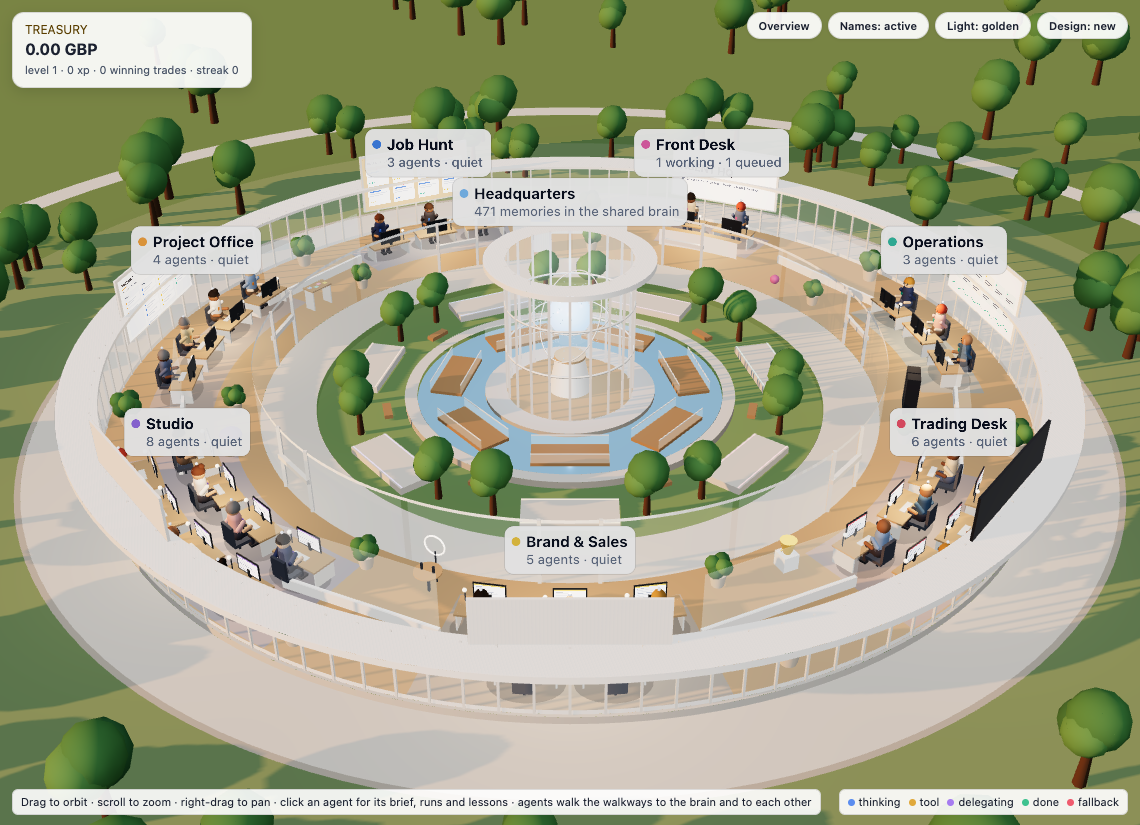
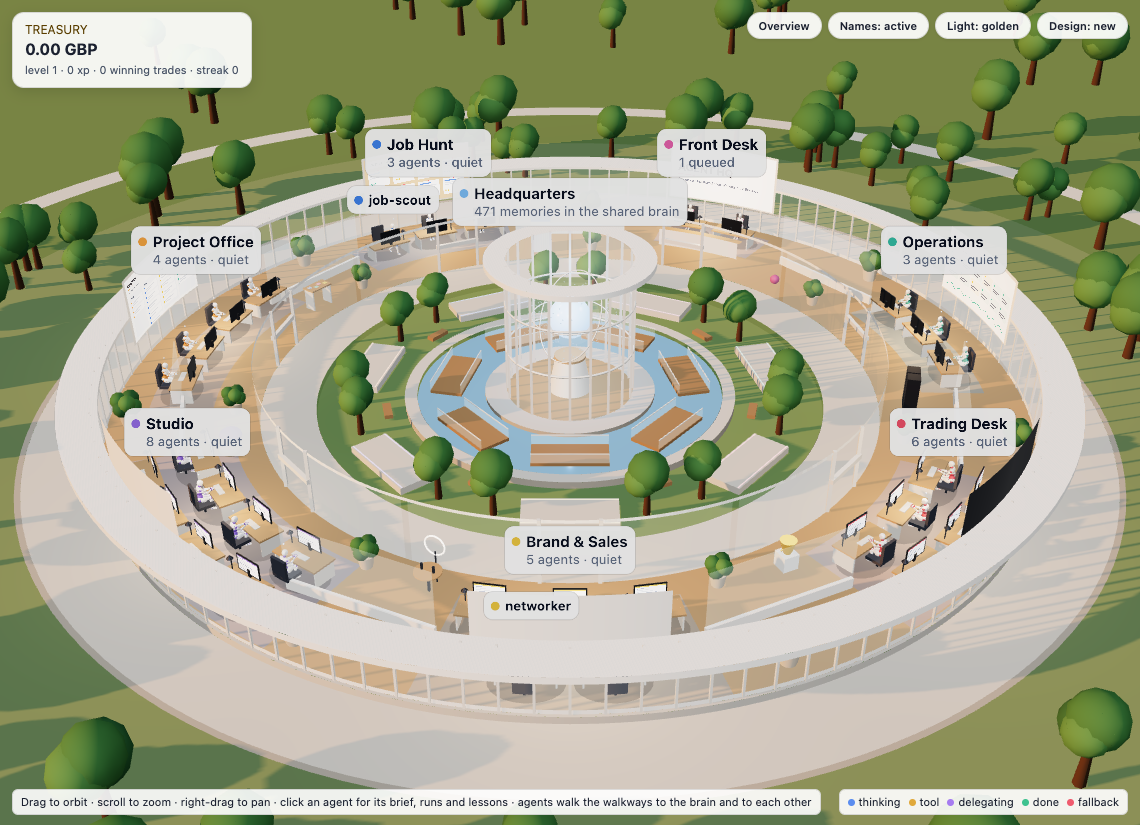
Sync from dev: Campus v2: motion-captured people (X Bot) that sit, type and walk; curved wall screens and ticker

diff --git a/office/static/office3d.js b/office/static/office3d.js
@@ -10,6 +10,24 @@
 import * as THREE from "three";
 import { OrbitControls } from "three/addons/controls/OrbitControls.js";
 import { RoomEnvironment } from "three/addons/environments/RoomEnvironment.js";
+import { GLTFLoader } from "three/addons/loaders/GLTFLoader.js";
+import * as SkeletonUtils from "three/addons/utils/SkeletonUtils.js";
+
+/* People: the motion-captured humanoid from the three.js examples (Mixamo X Bot: real proportions, captured
+   idle and walk, a full skeleton we pose to sit and type). Simple built-in figures are the fallback. */
+const PERSON_URL = "https://cdn.jsdelivr.net/gh/mrdoob/three.js@r160/examples/models/gltf/Xbot.glb";
+const PERSON_HEIGHT = 4.6;                                  // scene units (desk top is 1.85)
+// axes measured on the X Bot skeleton: thigh forward = local x-, knee = x+, arm down = z (left -, right +),
+// arm forward = y (left -, right +), elbow = y (left -, right +); bone height at scale 1 is 1.78
+const SIT = { hip: -1.5, knee: 1.5, drop: 0.72, back: 0.3, armDown: 1.2, armFwd: 0.95, elbow: 1.05, lean: 0.16 };
+const PERSON_SCALE = 2.5;
+let personAsset = null, personPromise = null, lastRoster = null;
+function loadPerson() {
+  if (!personPromise) personPromise = new GLTFLoader().loadAsync(PERSON_URL)
+    .then(g => { personAsset = { scene: g.scene, clips: g.animations, scale: PERSON_SCALE }; return personAsset; })
+    .catch(e => { console.warn("person model unavailable, using simple figures", e); return null; });
+  return personPromise;
+}
 
 const OFFICE_ORDER = ["front-desk", "job-hunt", "pm", "studio", "brand-sales", "trading", "ops"];
 const ACCENT = { "front-desk": 0xc2558f, "job-hunt": 0x3b6fd6, "pm": 0xd98433, "studio": 0x7a5fcf, "brand-sales": 0xd4a52a, "trading": 0xc94a5c, "ops": 0x2e9c86, "research": 0x3a9bc9, "creative": 0xd06a9c };
@@ -57,7 +75,7 @@ const M = {
   water: std(0x5d8db0, 0.07, 0.3, 1.1),
   fabric: std(0x59606e, 0.95, 0, 0.2), fabricWarm: std(0xc8b49a, 0.95, 0, 0.2), monitor: std(0x22262e, 0.4, 0.5, 0.5),
   trunk: std(0x6e5238, 1, 0, 0.1), pot: std(0xd8cbb7, 0.85, 0, 0.3), plant: std(0x4f8f55, 0.9, 0, 0.15),
-  gold: std(0xd9ae45, 0.3, 0.85, 1.0),
+  gold: std(0xd9ae45, 0.3, 0.85, 1.0), darkPanel: std(0x262a33, 0.5, 0.3, 0.4, { side: THREE.DoubleSide }),
   shadow: new THREE.MeshBasicMaterial({ color: 0x000000, transparent: true, opacity: 0.16, depthWrite: false }),
 };
 M.glass.envMapIntensity = 1.3; envMats.push([M.glass, 1.3]);
@@ -239,6 +257,7 @@ export function init(el, options = {}) {
   Object.assign(sun.shadow.camera, { left: -78, right: 78, top: 78, bottom: -78, near: 20, far: 420 }); sun.shadow.bias = -0.0004; sun.shadow.normalBias = 0.03; sun.shadow.radius = 4;
   scene.add(sun); scene.add(sun.target);
   buildSky(); buildLandscape(); buildCourtyard(); buildAtrium();
+  loadPerson().then(a => { if (a && lastRoster) { const st = {}; Object.values(figures).forEach(f => { st[f.name] = f.state; }); setRoster(lastRoster); Object.entries(st).forEach(([n, v]) => setState(n, v)); } });
   camera.position.set(0, 74, 122); controls.target.set(0, 0, 4);
   lastUser = performance.now();                       // the autopilot waits for a quiet spell before it starts gliding
   const el2 = renderer.domElement;
@@ -268,7 +287,7 @@ function pick(e) {
   const r = renderer.domElement.getBoundingClientRect();
   mouse.set(((e.clientX - r.left) / r.width) * 2 - 1, -((e.clientY - r.top) / r.height) * 2 + 1);
   raycaster.setFromCamera(mouse, camera);
-  const hits = raycaster.intersectObjects(Object.values(figures).map(f => f.group), true);
+  const hits = raycaster.intersectObjects(Object.values(figures).map(f => f.hit || f.group), true);
   if (hits.length) { let o = hits[0].object; while (o && !o.userData.agent) o = o.parent; if (o) return { fig: figures[o.userData.agent] }; }
   const sh = raycaster.intersectObjects(signs, false); if (sh.length) return { dept: sh[0].object.userData.dept };
   return null;
@@ -364,8 +383,9 @@ export function setBrain(count) {
 
 /* ----------------------------------------------------------------------------- the ring building */
 export function setRoster(list) {
-  if (campus) { scene.remove(campus); campus.traverse(o => { if (o.isSprite) dropSprite(o); }); }
-  Object.values(figures).forEach(f => { scene.remove(f.group); dropSprite(f.label); dropSprite(f.bubbleSprite); });
+  lastRoster = list;
+  if (campus) { scene.remove(campus); const old = []; campus.traverse(o => { if (o.isSprite) old.push(o); }); old.forEach(dropSprite); }   // collect first: removing while traversing skips children
+  Object.values(figures).forEach(f => { scene.remove(f.group); dropSprite(f.label); dropSprite(f.bubbleSprite); if (f.rig) f.rig.mixer.stopAllAction(); });
   figures = {}; depts = {}; signs = []; deptLights = []; rackTex = []; ticker = null; tradeScreen = null; treasuryBoard = null;
   campus = new THREE.Group(); scene.add(campus);
   const byOffice = {}; list.forEach(a => (byOffice[a.office] = byOffice[a.office] || []).push(a));
@@ -401,7 +421,7 @@ function buildDepartment(name, members, th0, th1, mid, span) {
   for (const th of [mid - door, mid + door]) { const post = box(0.35, H, 0.35, M.frame); post.position.copy(polar(RI, th, FLOOR + H / 2)); campus.add(post); }
   const lintel = box(0.45, 0.5, 2 * door * RI + 0.4, M.frame); lintel.position.copy(polar(RI, mid, FLOOR + 3.6)); lintel.rotation.y = mid; campus.add(lintel);
   // partition at th0: white base, glass above, slim cap
-  const len = RO - RI; const base = box(len, 1.1, 0.4, M.white); base.position.copy(polar((RI + RO) / 2, th0 - 0.01, FLOOR + 0.55)); base.rotation.y = th0 + Math.PI / 2; campus.add(base);
+  const len = RO - RI - 0.8; const base = box(len, 1.1, 0.4, M.white); base.position.copy(polar((RI + RO) / 2, th0 - 0.01, FLOOR + 0.55)); base.rotation.y = th0 + Math.PI / 2; campus.add(base);
   const pane = new THREE.Mesh(new THREE.BoxGeometry(len, H - 1.1, 0.12), M.glass); pane.position.copy(polar((RI + RO) / 2, th0 - 0.01, FLOOR + 1.1 + (H - 1.1) / 2)); pane.rotation.y = th0 + Math.PI / 2; campus.add(pane);
   // warm interior light (brighter at night)
   const lamp = new THREE.PointLight(0xffd8a8, 40, 30, 1.6); lamp.position.copy(polar((RI + RO) / 2, mid, FLOOR + H - 0.8)); campus.add(lamp); deptLights.push(lamp);
@@ -427,7 +447,7 @@ function buildDepartment(name, members, th0, th1, mid, span) {
     const deskPos = polar(r, th, FLOOR); const rot = facing(deskPos, new THREE.Vector3(0, FLOOR, 0));
     const desk = addDesk(screenMat); desk.position.copy(deskPos); desk.rotation.y = rot; campus.add(desk);
     const seat = deskPos.clone().add(new THREE.Vector3(Math.sin(rot) * 2.0, 0, Math.cos(rot) * 2.0));
-    const fig = makeFigure(a, k, accent); fig.group.position.copy(seat); fig.group.rotation.y = rot;
+    const fig = (personAsset ? makePerson : makeFigure)(a, k, accent); fig.group.position.copy(seat); fig.group.rotation.y = rot;
     fig.home = seat.clone(); fig.homeRot = rot; fig.dept = name; scene.add(fig.group);
     fig.label = pxSprite([a.name], { accent: hex(accent) }); fig.label.visible = false; scene.add(fig.label);
     figures[a.name] = fig;
@@ -435,12 +455,12 @@ function buildDepartment(name, members, th0, th1, mid, span) {
   // feature wall on the outer glass, facing the courtyard
   const arcLen = (RO - 0.6) * (th1 - th0); const sw = Math.min(arcLen - 10, 15), sh = sw / 2;
   let tex; if (name === "trading") { tradeScreen = tradingCanvas(); tex = tradeScreen.tex; } else tex = wallTexture(name, accent);
-  const wall = new THREE.Mesh(new THREE.PlaneGeometry(sw, sh), glow(0xffffff, name === "trading" ? 0.95 : 0.2, 0.35, { map: tex, emissiveMap: tex, emissive: 0xffffff, roughness: 0.5 }));
-  const wy = FLOOR + 3.7 + sh / 2; wall.position.copy(polar(RO - 0.75, mid, wy)); wall.rotation.y = mid - Math.PI / 2; campus.add(wall);
-  const back = box(sw + 0.5, sh + 0.5, 0.25, name === "trading" ? M.dark : M.white); back.position.copy(polar(RO - 0.5, mid, wy)); back.rotation.y = mid + Math.PI / 2; campus.add(back);
+  mirrorU(tex); const wy = FLOOR + 3.7 + sh / 2;
+  campus.add(curvedPanel(RO - 0.95, mid, sw, wy, sh, glow(0xffffff, name === "trading" ? 0.95 : 0.2, 0.35, { map: tex, emissiveMap: tex, emissive: 0xffffff, roughness: 0.5, side: THREE.BackSide })));
+  campus.add(curvedPanel(RO - 0.8, mid, sw + 0.5, wy, sh + 0.5, name === "trading" ? M.darkPanel : M.white));
   if (name === "trading") {
-    const tt = tickerTexture(); tt.repeat.set(0.5, 1); ticker = tt;
-    const strip2 = new THREE.Mesh(new THREE.PlaneGeometry(sw, 0.9), glow(0xffffff, 0.6, 0.3, { map: tt, emissiveMap: tt, emissive: 0xffffff })); strip2.position.copy(polar(RO - 0.75, mid, FLOOR + 3.1)); strip2.rotation.y = mid - Math.PI / 2; campus.add(strip2);
+    const tt = tickerTexture(); tt.repeat.set(-0.5, 1); ticker = tt;
+    campus.add(curvedPanel(RO - 0.95, mid, sw, FLOOR + 3.1, 0.9, glow(0xffffff, 0.6, 0.3, { map: tt, emissiveMap: tt, emissive: 0xffffff, side: THREE.BackSide })));
     treasuryBoard = pxSprite(["Treasury", "0.00 GBP · level 1"], { size: 14, accent: "#d9ae45" }); treasuryBoard.position.copy(polar(RO - 1, mid, FLOOR + H + 3.4)); campus.add(treasuryBoard);
   }
   addProp(name, polar(RI + 3.2, th0 + 3.6 / (RI + 3.2), FLOOR), th0, accent);
@@ -450,6 +470,9 @@ function buildDepartment(name, members, th0, th1, mid, span) {
   const sign = pxSprite([TITLE[name] || name, `${n} agent${n > 1 ? "s" : ""}`], { size: 15, accent: hex(accent) }); sign.position.copy(polar((RI + RO) / 2 + 2, mid, FLOOR + H + 2.2)); sign.userData.dept = name; campus.add(sign); signs.push(sign);
   depts[name].sign = sign; depts[name].count = n;
 }
+/* a panel that follows the curved outer wall (seen from the courtyard side) */
+function curvedPanel(r, mid, width, y, h, mat) { const len = width / r; const m = new THREE.Mesh(new THREE.CylinderGeometry(r, r, h, 40, 1, true, mid - len / 2 + Math.PI / 2, len), mat); m.position.y = y; return m; }
+function mirrorU(t) { t.wrapS = THREE.RepeatWrapping; t.repeat.x = -1; t.offset.x = 1; return t; }   // cylinder interiors run right-to-left
 function addDesk(screenMat) {
   const g = new THREE.Group();
   const top = box(5.4, 0.18, 2.6, M.oak); top.position.set(0, 1.85, 0); g.add(top);
@@ -459,7 +482,8 @@ function addDesk(screenMat) {
   const stand = box(0.3, 0.9, 0.3, M.monitor); stand.position.set(0, 2.3, -0.9); g.add(stand);
   const kb = box(1.8, 0.08, 0.6, M.frame, false); kb.position.set(0, 2.0, 0.35); g.add(kb);
   const lampArm = box(0.08, 1.3, 0.08, M.metal, false); lampArm.position.set(-2.1, 2.55, -0.6); g.add(lampArm);
-  const bulb = new THREE.Mesh(SHARED.sphere, glow(0xfff1d6, 0.05, 1.1)); bulb.scale.setScalar(0.22); bulb.position.set(-2.1, 3.25, -0.45); g.add(bulb);
+  const shade = new THREE.Mesh(new THREE.ConeGeometry(0.32, 0.35, 16, 1, true), M.metal); shade.position.set(-2.1, 3.3, -0.5); g.add(shade);
+  const bulb = new THREE.Mesh(SHARED.sphere, glow(0xfff1d6, 0.05, 1.1)); bulb.scale.setScalar(0.12); bulb.position.set(-2.1, 3.17, -0.5); g.add(bulb);
   const seat = box(1.7, 0.3, 1.7, M.fabric); seat.position.set(0, 1.05, 2.0); g.add(seat);
   const back = box(1.7, 2.0, 0.28, M.fabric); back.position.set(0, 2.2, 2.85); g.add(back);
   const post = box(0.2, 0.9, 0.2, M.metal, false); post.position.set(0, 0.5, 2.0); g.add(post);
@@ -549,7 +573,49 @@ function makeFigure(a, k, accent) {
   const fig = { name: a.name, accent, group, body, legs, parts: { armL, armR, foreL, foreR, thL, thR, shL, shR, shoeL, shoeR, head, light, halo }, state: "idle", seated: true, target: null, path: [], bubbleSprite: null, bubbleUntil: 0, phase: Math.random() * 6, hover: false };
   pose(fig, true); return fig;
 }
+const _q = new THREE.Quaternion(), AX = { x: new THREE.Vector3(1, 0, 0), y: new THREE.Vector3(0, 1, 0), z: new THREE.Vector3(0, 0, 1) };
+const qa = (axis, a) => _q.setFromAxisAngle(AX[axis], a);
+function makePerson(a, k, accent) {
+  const group = new THREE.Group(); group.userData.agent = a.name;
+  const seed = [...a.name].reduce((s, ch) => s + ch.charCodeAt(0), 0) + k;
+  const model = SkeletonUtils.clone(personAsset.scene); model.scale.setScalar(personAsset.scale); model.rotation.y = Math.PI; group.add(model);
+  const suit = new THREE.Color([0xeeece7, 0xe4e6ea, 0xdcd8d0, 0xd2d6dc][seed % 4]), trim = new THREE.Color(accent).multiplyScalar(0.8);
+  model.traverse(o => { if (!o.isMesh) return; o.castShadow = !MOBILE; o.receiveShadow = false; o.frustumCulled = false;
+    const m = o.material.clone(); if (/joint/i.test(m.name)) m.color.copy(trim); else m.color.copy(suit);
+    m.roughness = 0.42; m.metalness = 0.08; m.envMapIntensity = 0.55; envMats.push([m, 0.55]); o.material = m; });
+  const bones = {}; model.traverse(o => { if (o.isBone) bones[o.name.replace(/^mixamorig:?/, "")] = o; });
+  const rest = {}; for (const n of ["LeftUpLeg", "RightUpLeg", "LeftLeg", "RightLeg", "LeftArm", "RightArm", "LeftForeArm", "RightForeArm", "Spine"]) if (bones[n]) rest[n] = bones[n].quaternion.clone();
+  const mixer = new THREE.AnimationMixer(model); const clip = n => personAsset.clips.find(c => c.name === n);
+  const idle = mixer.clipAction(clip("idle")), walkA = mixer.clipAction(clip("walk"));
+  idle.play(); walkA.play(); walkA.setEffectiveWeight(0); walkA.timeScale = 1.6; idle.time = (seed % 17) / 17 * idle.getClip().duration;
+  const hit = new THREE.Mesh(new THREE.BoxGeometry(1.8, PERSON_HEIGHT, 1.8), new THREE.MeshBasicMaterial({ visible: false })); hit.position.y = PERSON_HEIGHT / 2; hit.userData.agent = a.name; group.add(hit);
+  const light = new THREE.Mesh(SHARED.sphere, new THREE.MeshStandardMaterial({ color: STATE_COLOR.idle, emissive: STATE_COLOR.idle, emissiveIntensity: 0.4 })); light.scale.setScalar(0.18); light.position.y = PERSON_HEIGHT + 0.5; group.add(light);
+  const halo = new THREE.Mesh(new THREE.RingGeometry(0.9, 1.25, 32), new THREE.MeshBasicMaterial({ color: accent, transparent: true, opacity: 0, side: THREE.DoubleSide, depthWrite: false })); halo.rotation.x = -Math.PI / 2; halo.position.y = 0.06; group.add(halo);
+  return { name: a.name, accent, group, hit, rig: { model, bones, rest, mixer, idle, walk: walkA, w: 0 }, parts: { light, halo }, state: "idle", seated: true, target: null, path: [], bubbleSprite: null, bubbleUntil: 0, phase: (seed % 31) / 5, hover: false };
+}
+/* blend idle/walk, then (when seated) pose the skeleton: thighs forward, knees bent, hands on the keyboard */
+function rigUpdate(f, t, dt) {
+  const r = f.rig, moving = !!f.target, B = r.bones, R = r.rest;
+  r.w += ((moving ? 1 : 0) - r.w) * Math.min(1, dt * 6); r.walk.setEffectiveWeight(r.w); r.idle.setEffectiveWeight(1 - r.w);
+  r.mixer.update(dt);
+  const sit = f.seated && !moving;
+  r.model.position.y += ((sit ? -SIT.drop : 0) - r.model.position.y) * Math.min(1, dt * 8); r.model.position.z = sit ? SIT.back : 0;
+  f.parts.light.position.y = (sit ? PERSON_HEIGHT - SIT.drop : PERSON_HEIGHT) + 0.5;
+  if (!sit) return;
+  for (const s of ["Left", "Right"]) {
+    if (B[s + "UpLeg"]) B[s + "UpLeg"].quaternion.copy(R[s + "UpLeg"]).multiply(qa("x", SIT.hip));
+    if (B[s + "Leg"]) B[s + "Leg"].quaternion.copy(R[s + "Leg"]).multiply(qa("x", SIT.knee));
+  }
+  const working = f.state === "think" || f.state === "tool" || f.state === "delegate";
+  for (const [s, sg] of [["Left", -1], ["Right", 1]]) {
+    if (B[s + "Arm"]) B[s + "Arm"].quaternion.copy(R[s + "Arm"]).multiply(qa("z", sg * SIT.armDown)).multiply(qa("y", sg * SIT.armFwd));
+    if (B[s + "ForeArm"]) B[s + "ForeArm"].quaternion.copy(R[s + "ForeArm"]).multiply(qa("y", sg * (SIT.elbow + (working ? Math.sin(t * 16 + f.phase + sg) * 0.07 : 0))));
+  }
+  if (B.Spine) B.Spine.quaternion.multiply(qa("x", SIT.lean));
+}
+export function tuneSit(o = {}) { Object.assign(SIT, o); return { ...SIT }; }
 function pose(fig, seated) {
+  if (fig.rig) { fig.seated = seated; return; }
   const p = fig.parts; fig.seated = seated;
   if (seated) {
     p.thL.position.set(-0.4, 1.75, -0.55); p.thL.rotation.x = Math.PI / 2; p.thR.position.set(0.4, 1.75, -0.55); p.thR.rotation.x = Math.PI / 2;
@@ -649,19 +715,22 @@ function frame(now) {
         if (f.path.length) f.target = f.path.shift();
         else { f.target = null; const atHome = g.position.distanceTo(f.home) < 0.6; if (atHome) { g.rotation.y = f.homeRot; pose(f, true); } else if (f.lookAt) g.rotation.y = facing(g.position, f.lookAt); }
       } else {
-        if (f.seated) pose(f, false); const step = Math.min(dist, dt * 14); g.position.add(d.normalize().multiplyScalar(step)); g.rotation.y = Math.atan2(d.x, d.z) + Math.PI;
+        if (f.seated) pose(f, false); const step = Math.min(dist, dt * (f.rig ? 6.5 : 14)); g.position.add(d.normalize().multiplyScalar(step)); g.rotation.y = Math.atan2(d.x, d.z) + Math.PI;
+        if (f.rig) { g.position.y = f.home.y; } else {
         const sw = Math.sin(t * 10 + f.phase) * 0.7; p.thL.rotation.x = sw; p.thR.rotation.x = -sw; p.shL.rotation.x = Math.max(0, -sw) * 0.8; p.shR.rotation.x = Math.max(0, sw) * 0.8; p.armL.rotation.x = -sw * 0.6; p.armR.rotation.x = sw * 0.6;
-        g.position.y = f.home.y - 0.75 + Math.abs(Math.sin(t * 10 + f.phase)) * 0.14;
+        g.position.y = f.home.y - 0.75 + Math.abs(Math.sin(t * 10 + f.phase)) * 0.14; }
       }
+    } else if (f.rig) { /* seated or standing pose handled by rigUpdate */
     } else if (f.seated) {
       const working = f.state === "think" || f.state === "tool" || f.state === "delegate";
       if (working) { p.foreL.position.y = 2.55 + Math.sin(t * 17 + f.phase) * 0.09; p.foreR.position.y = 2.55 + Math.cos(t * 16 + f.phase) * 0.09; p.head.position.y = 4.6 + Math.sin(t * 2.3 + f.phase) * 0.03; p.head.rotation.x = -0.14; p.head.rotation.y = Math.sin(t * 1.1 + f.phase) * 0.08; }
       else { p.foreL.position.y = 2.55; p.foreR.position.y = 2.55; p.head.position.y = 4.6 + Math.sin(t * 1.2 + f.phase) * 0.04; p.head.rotation.x = Math.sin(t * 0.45 + f.phase) * 0.06; p.head.rotation.y = Math.sin(t * 0.3 + f.phase) * 0.3; }
       f.body.position.y = Math.sin(t * 1.4 + f.phase) * 0.025;
     } else if (f.lookAt) { p.foreR.rotation.x = -0.6 + Math.sin(t * 5 + f.phase) * 0.25; }
-    p.light.scale.setScalar(f.state === "idle" ? 0.15 : 0.2 + 0.05 * Math.sin(t * 6 + f.phase));
+    if (f.rig) rigUpdate(f, t, dt);
+    const ls = f.rig ? 0.6 : 1; p.light.scale.setScalar(ls * (f.state === "idle" ? 0.15 : 0.2 + 0.05 * Math.sin(t * 6 + f.phase)));
     p.halo.material.opacity = f.hover ? 0.9 : (f.state !== "idle" && f.state !== "done") ? 0.35 + 0.2 * Math.sin(t * 4 + f.phase) : 0;
-    const head = g.position.clone().add(new THREE.Vector3(0, f.seated ? 6.0 : 6.9, 0));
+    const head = g.position.clone().add(new THREE.Vector3(0, f.rig ? (f.seated && !f.target ? PERSON_HEIGHT - SIT.drop + 1.2 : PERSON_HEIGHT + 1.2) : (f.seated ? 6.0 : 6.9), 0));
     const bubble = f.bubbleSprite && Date.now() < f.bubbleUntil;
     const crowded = MOBILE && camera.position.distanceTo(controls.target) > 110;     // phone overview: names appear once you zoom in
     f.label.visible = f.hover || (!crowded && (labelMode === "all" || !!f.target || bubble || (f.state !== "idle" && f.state !== "done")));
@@ -679,3 +748,5 @@ function frame(now) {
   controls.update(); renderer.render(scene, camera);
 }
 export function debugView() { return { cam: camera.position.toArray().map(v => +v.toFixed(1)), target: controls.target.toArray().map(v => +v.toFixed(1)), tween: !!tween, lastFrameAgo: Math.round(performance.now() - lastFrame), hidden: document.hidden, depts: Object.keys(depts), lastUser: Math.round(lastUser) }; }
+export function _debugFigures() { return figures; }
+export function _fly(pos, target) { lastUser = performance.now(); flyTo(pos, target, 0.5); }

diff --git a/README.md b/README.md
@@ -174,6 +174,12 @@ of its work and a signature object: a reception counter at the Front Desk, an in
 stand-up kanban table in the Project Office, bean bags in the Studio, a podcast table in Brand & Sales, live
 moving charts, a ticker and a treasury trophy on the Trading Desk, and blinking server racks in Operations.
 
+The people are motion-captured humanoids (the free Mixamo "X Bot" from the three.js examples, loaded from a
+CDN): real human proportions, a captured idle and walk, and a skeleton the office poses to sit at the desk with
+hands on the keyboard (typing while they work). Each wears an off-white suit trimmed in their department's
+colour. If the model cannot load, the office falls back to simple built-in figures. Wall screens and the
+ticker are curved to follow the building, so nothing pokes through the glass.
+
 The shared brain is the headquarters: a glass atrium on an island in a reflecting pond, its core glowing on a
 plinth with orbiting memory motes (more memories, more motes). Stone walkways and timber bridges join every
 department to it. Agents really use them: an agent walks out of its doorway, along the promenade and over its
